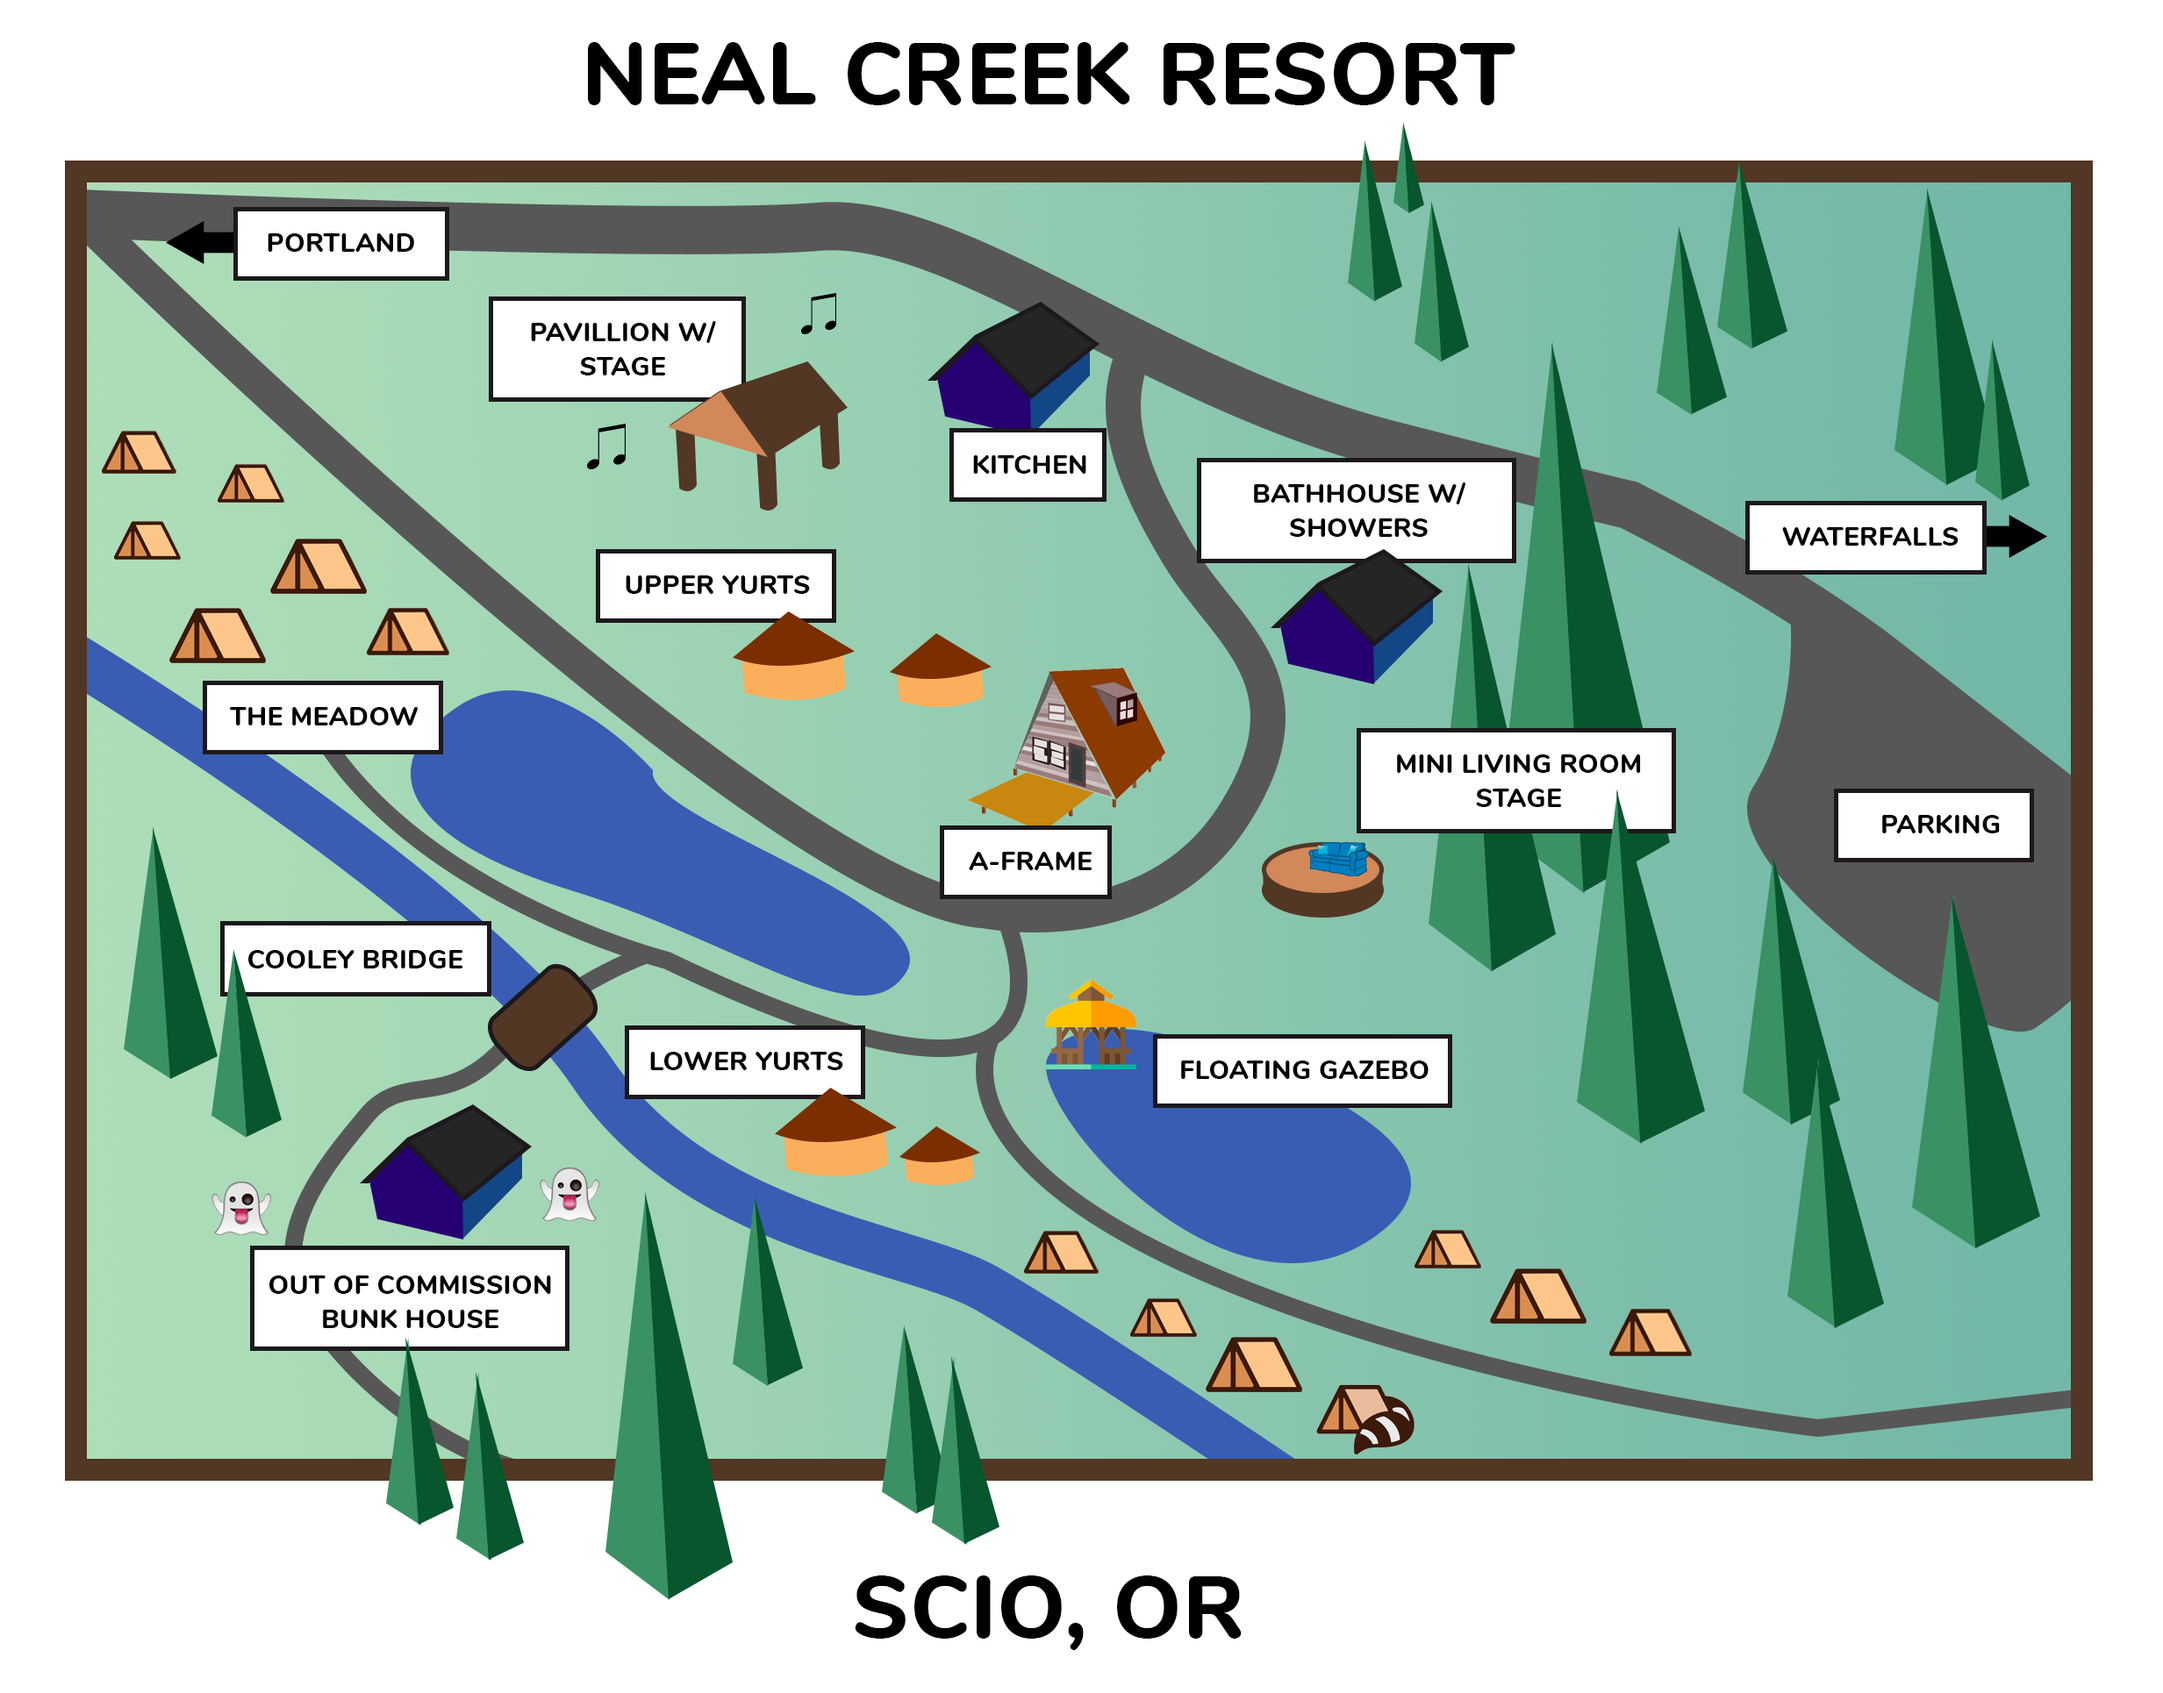
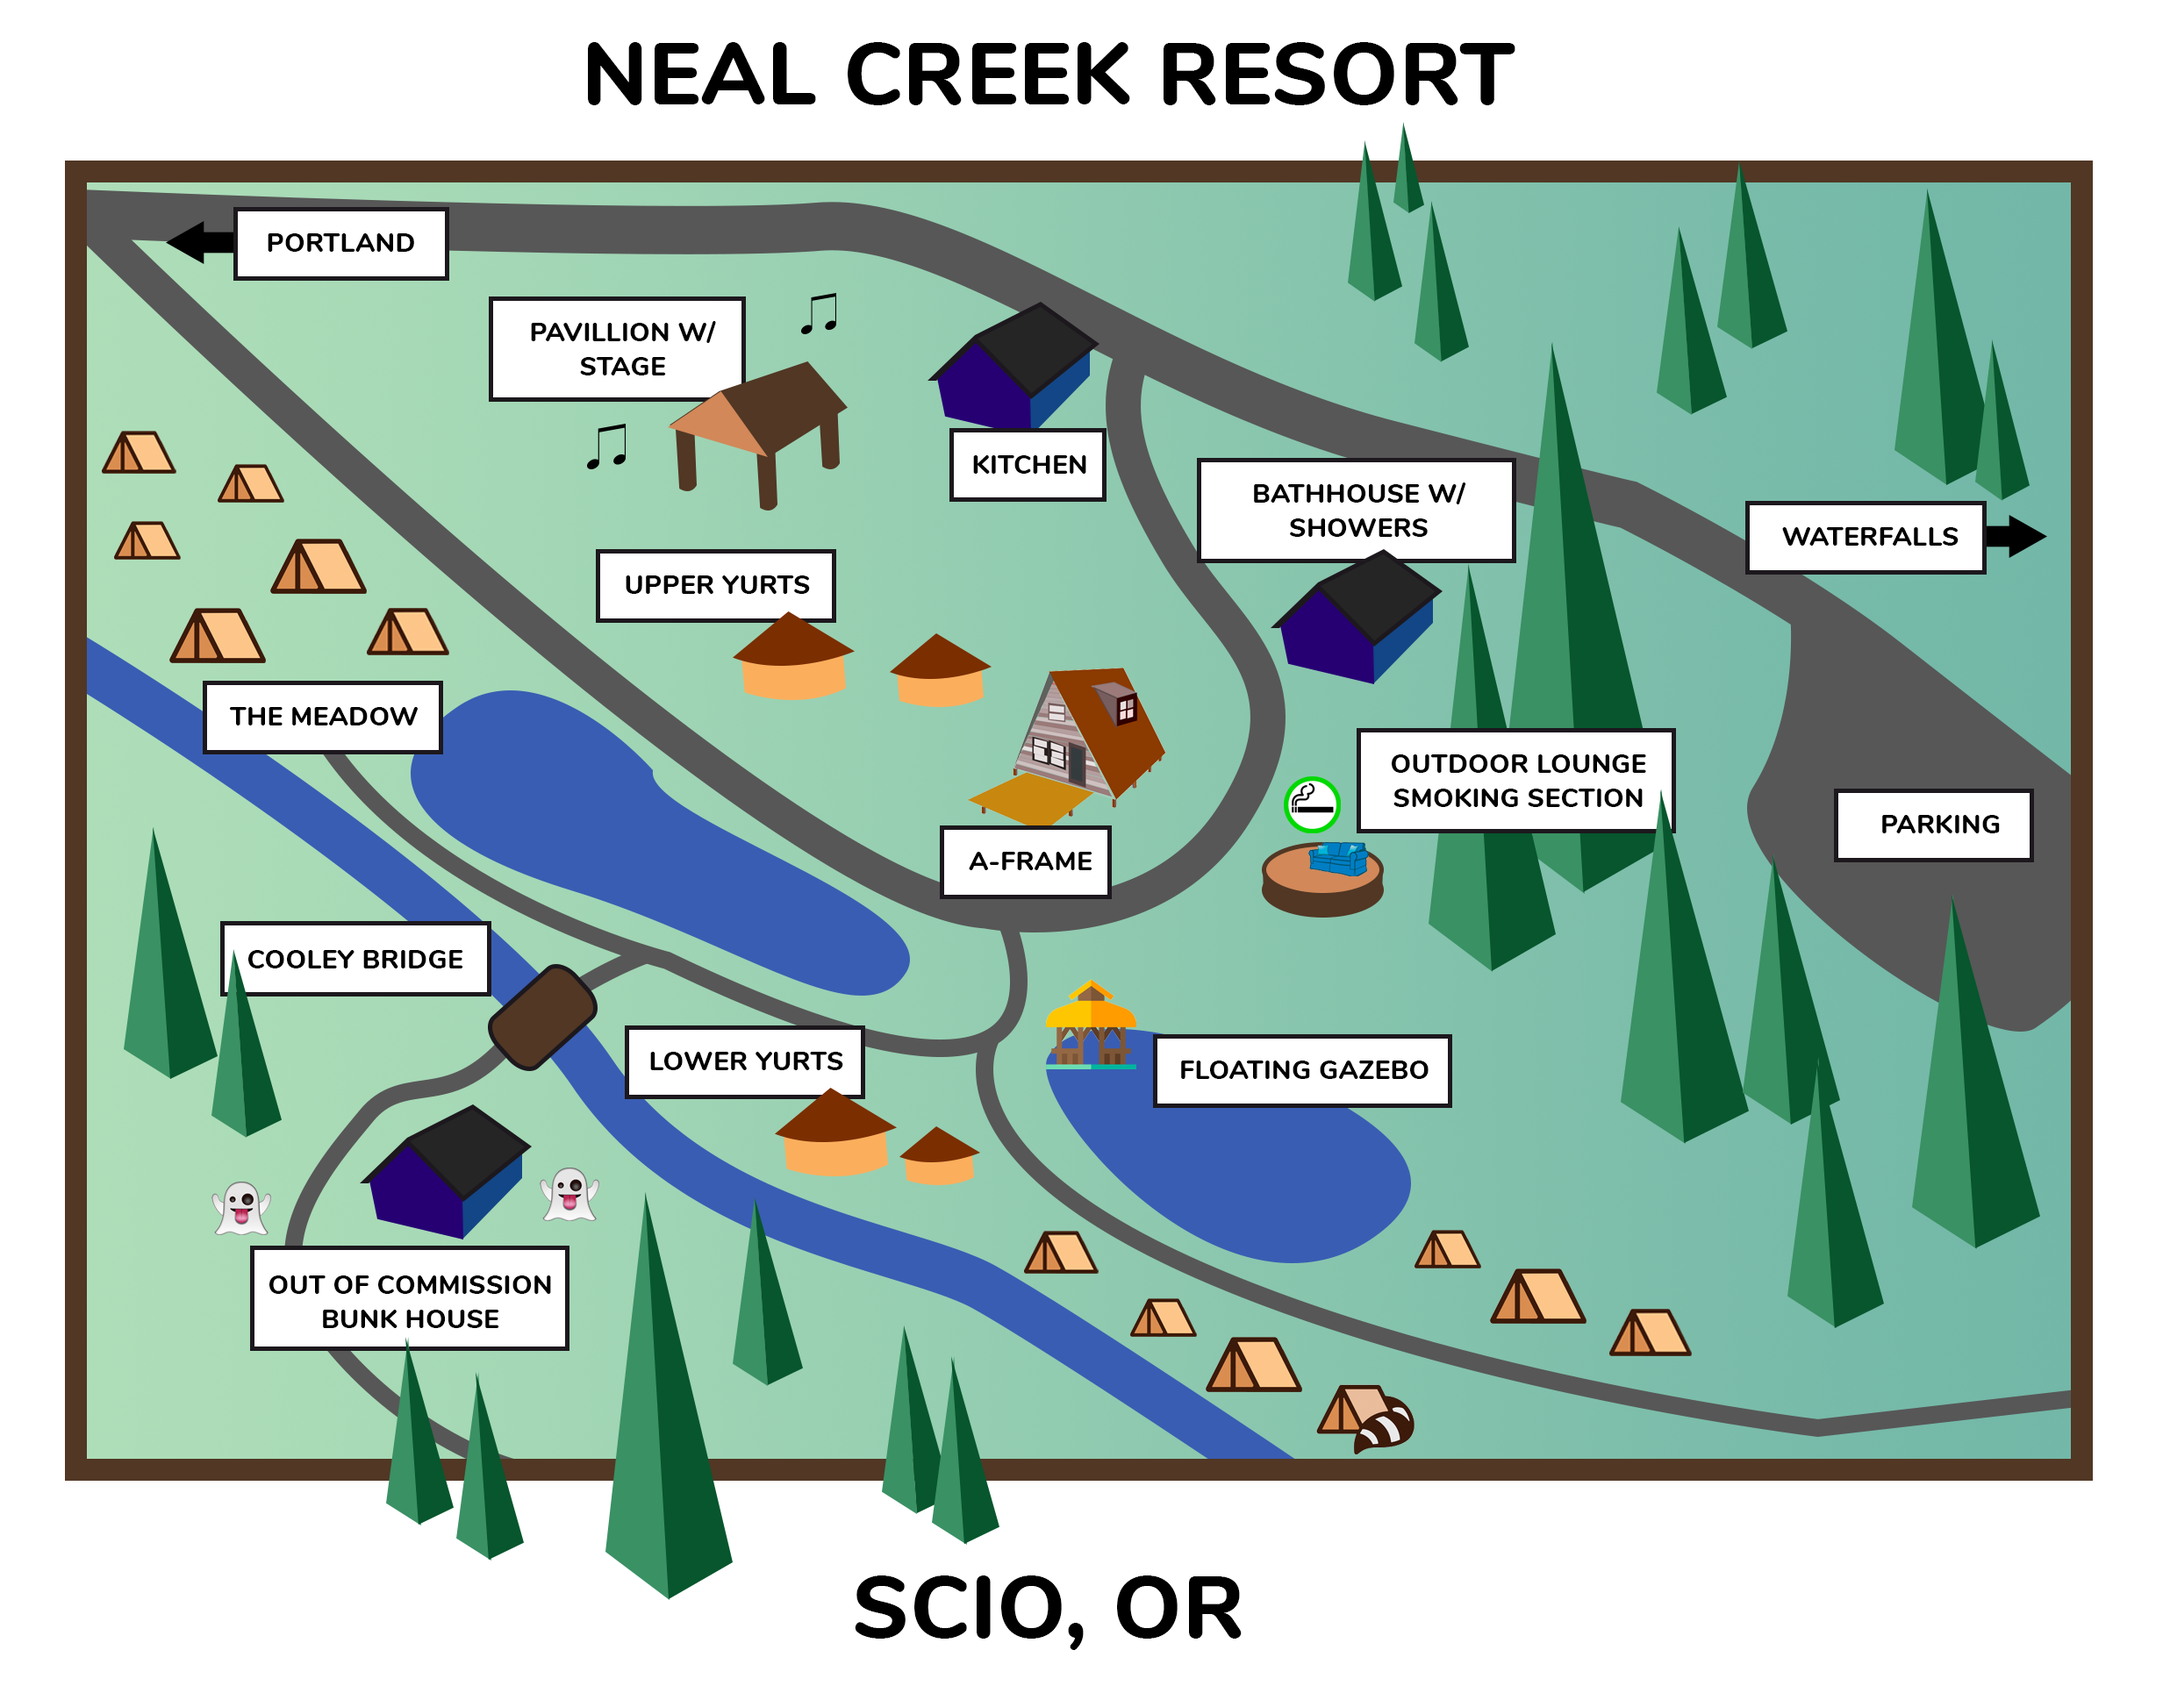
✨ Add food plan, updated map

Changed region(s): [[0.656, 0.4352, 0.8122, 0.6839], [0.5935, 0.4352, 0.6247, 0.4974]]

diff --git a/src/pages/events.md b/src/pages/events.md
@@ -2,11 +2,29 @@
 templateKey: events-page
 aboutHeader: Location details
 aboutContent: >-
-  <p><em>Last updated 2021-05-10</em><br></br>
+  <p><em>Last updated 2021-07-09</em><br></br>
+  <h2>Cost:</h2>
+  The cost is $100/person which includes event rental, portable toilets and communal food. Venmo Palmer ASAP to reserve your spot: @Palmer-Auty.
+  <br />
+  <br />
+  <h2>Food plan by Chef M@:</h2>
+  <ul>
+  <li>Unless people specifically volunteer (Elish has already requested to make a breakfast), all food/meals will be the 'serve yourself' variety.</li>
+  <li>The food collected for the W is yours to eat! You don't need to ask anyone if it's ok to have a muffin or if you want to cook a cheeseburger before anyone else does. All of this food will be stored in the main office kitchen. </li>
+  <li>Most, if not all the food, will be purchased from CostCo this week. I'm buying non-perishable stuff this weekend, while the fresher foods will be purchased on Tuesday probably.</li>
+  <li>Feel free to bring your own food! The communal food will be for everyone, but the food you bring is yours alone (unless you decide to share it). Because of that, if you're bringing your own food, consider bringing a personal cooler, or coordinating with someone to find a cooler to share. <strong>ANY FOOD STORED IN THE OFFICE KITCHEN IS UP FOR GRABS.</strong></li>
+  </ul>
+  <br />
+  While y'all can help yourself, there will also be a loose plan for group meals to make it easier for everyone:
+  <ul>
+  <li><strong>For breakfasts,</strong> think "Holiday Inn Continental Breakfast". I (or someone else) will cook off some eggs, breakfast meats (as well as vegan 'meat'), fresh fruit, some combo of granola/yogurt/bagels/muffins/pastries/jam/cream cheese. There MIGHT even be pancakes! So, if this basic type of breakfast is up your alley, you're all set. If you want to make an omelette or something, you're welcome to the supply we have. And if you want something different, consider bringing/packing that yourself.</li>
+  <li><strong>For lunches,</strong> think "Corporate Off-Site BBQ." We'll have fixin's for burgers and dogs (again, we will have vegan options as well). Some various side dishes, veggies, and a deli sandwich bar. This is a serve yourself, though if people want to volunteer to cook off a bunch of burgers/dogs when it's almost lunch time, great.</li>
+  <li><strong>For dinners,</strong> think "Survivor: Scio." Everyone will be divided into groups of 4 and compete in a grueling GAUNTLET challenge where you're not only battling Mother Nature, but the Nature of Humanity itself. Forge alliances, betray your friends, get stung by a bee. Bask in the glory of navigating a 4 mile obstacle course with a gluttonous reward of roasted penguins and a bathtub of caviar, while your defeated nemeses cry over a cold bowl of tomato soup. Just kidding, dinners will pretty be much be the same thing as breakfasts/lunches. There will be stuff to eat, you MAY have to cook it, OR you might find that someone has taken it upon themselves to cook some stuff to share. There might also be some cool meals made. I'm not 100% sure yet, but was thinking doing something like a Spaghetti dinner, or lasagnas/frozen pizzas.</li>
+  </ul>
   <h2>Lay of the land:</h2>
   <ul>
   <li>Pavillion: Plenty of power, beautiful stage, upper balcony and a few grills</li>
-  <li>Main House: Catering fridge, oven, sandwich bar, meat carver, additional smaller fridge. One bedroom and one bathroom but limited use</li>
+  <li>Main House: Catering fridge, oven, sandwich bar, meat slicer, additional smaller fridge. One bedroom and one bathroom but limited use</li>
   <li>A-Frame: Kitchen with fridge, loft with queen bed and twin bed, as well as side room with full bed. Couches to lounge and a fireplace.</li>
   <li>Small Yurt 1: Twin bunk bed with mattresses, power and heat</li>
   <li>Small Yurt 2: No bedframes, but power/heat</li>
@@ -17,21 +35,18 @@ aboutContent: >-
   <li>Shower house: 6-8 stalls with curtains plus a row of sinks and mirrors with outlets.</li>
   </ul>
   <br />
-  <h2>Things of note:</h2>
+  <h2>Other things of note:</h2>
   <ul>
-  <li>Masks and social distancing will not be required and/or enforced. We welcome anyone regardless of vaccine status to join at their own risk. Please prioritize your health and reach out if you have questions.</li>
-  <li>Power is plentiful, but will want to bring lighting for paths and other areas. Rope lights work well.</li>
-  <li>Fires are unlikely due to fire season, if available there is one fire pit</li>
-  <li>Plenty of water for drinking, washing and swimming.</li>
+  <li>Masks and social distancing will not be required and/or enforced. Feel free to take whatever precautions you need to in order to prioritize your health.</li>
+  <li>Smoking + vaping will only be allowed in designated areas.</li>
+  <li>Campfires will not be allowed, but there are plenty of indoor areas with heat to warm up.</li>
+  <li>Power is plentiful, but we will want to bring lighting for paths and other areas. Rope lights work well.</li>
+  <li>Plenty of water for drinking, washing, and swimming</li>
   <li>Waterfall area nearby for hanging out, lots of trails</li>
   <li>No sound concerns</li>
-  <li>Wifi and a verizon booster in the A-Frame, otherwise no service</li>
+  <li>Wifi and a Verizon booster in the A-Frame, otherwise no service</li>
   <li>No pets</li>
   <li>Plenty of parking</li>
-  <li>Will need to rent portapotties, at least one and get the one on the property serviced</li>
   </ul>
-  <br />
-  <h2>Cost:</h2>
-  Depending on how many people attend, the cost will be approximently $100/person which will include meals.
-  <p>
+  </p>
 ---
